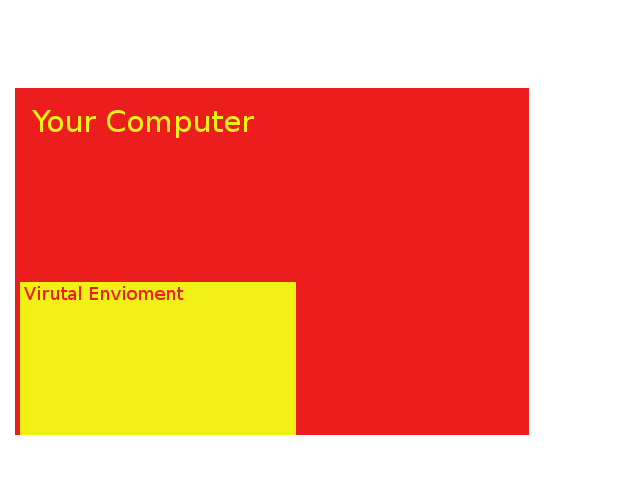
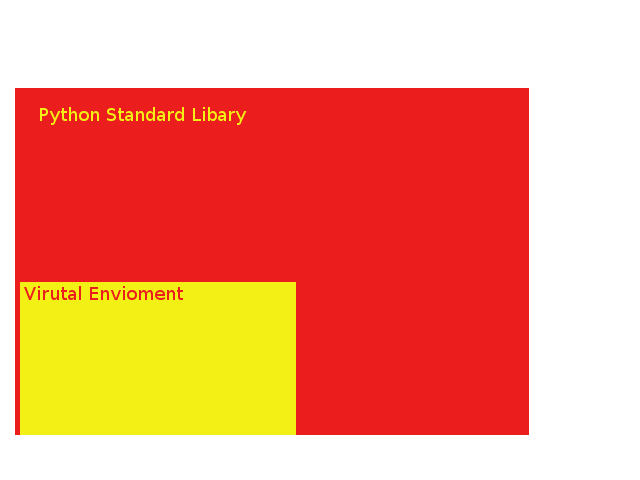
step 3 done

Changed region(s): [[0.0312, 0.2188, 0.4062, 0.2812]]

diff --git a/en-GB/lessons/dependency-delight/dependency-delight.md b/en-GB/lessons/dependency-delight/dependency-delight.md
@@ -30,9 +30,29 @@ A virtual envoiment is esentalay a box where you project can you install and run
 ### pip
 pip is a tool that is useded to install the tools or 'packages', once you have created a virtual envoiment you will be alble to install packages. in this project we will be using the following commands, `pip install [packages name]`, `pip uninstall [package name]` and `pip freeze > [filename]`.
 
-# Step 1: setting up our working directory { .activity}
+### python Standard Libary.
+the python standard Libary is a Group of tools, frameworks and tools, that are considered to be usfule to most devopment there are many frameworks have diffrent uses and expericed python devopers will look python standard Libary before installing a dependency.
+
+## Step 1: setting up our working directory { .activity}
 the first thing that needs to be done is to create a space where we can start to work on our project. the first thing wee need to do is to create a new directory, to store our porjects in to create a directory use the command `mkdir [directory name]`. and then go into the directory (by useing `cd [directory name]`).
 
-# Step 2: createing a virtualenv { .activity}
+## Step 2: createing a virtualenv { .activity}
 the next step is to set up the virtual envioment, you can do this by simply by ruuning the `virtualenv [envoiment name]` an exsample is shown here.
 ![screenshot](createingvenu.png)
+
+#### techical information.
+what has happend when you created, your virtual envoiment all the files and directorys, that required to create the virtual envoiment, it is important remember that envoiment will be linked to the structure of you operation system and will not work on anyone else computer.
+
+if you need to use a sing version of python you can then use the `-p` argument. as an exsample of this would be if you wanted to make sure that your project used python3 `virtualenv -p /usr/bin/python3 venu`, this mite be a little diffrent, if you are useing windows.
+
+## Step 3: activateing your envioment
+the next step is to activate your newly created virtual envoiment this means that when you python code on your local computer will use the envioment that is activated this means that any frameworks or tools that you have installed will then be used.
+
+![screenshot](isolation.png)
+When python in used under normal situaltions there is the Python Standard Libary is also installed. when you use pip to install your dependency you will be installing your dependency to be in your Standard Libary (**red**) but if have a virtual envoiment activated, then the deppency will be installed to your virtualenv envoiment (**yellow**). addionaly any dependcy that is installed to an envoiment will not be detected when the virtual envoiment is not active.
+
+to activate you virtualenvoiment in linux you will need to use the following command `$ source [virtualenv name]/bin/activate` and on windows is `[virtualenv name]/bin/activate.bat` in both cases this will activate your your envoiment.
+
+
+# Links and Resources:
+- [virtualenv.pypa](https://virtualenv.pypa.io/en/stable/)
